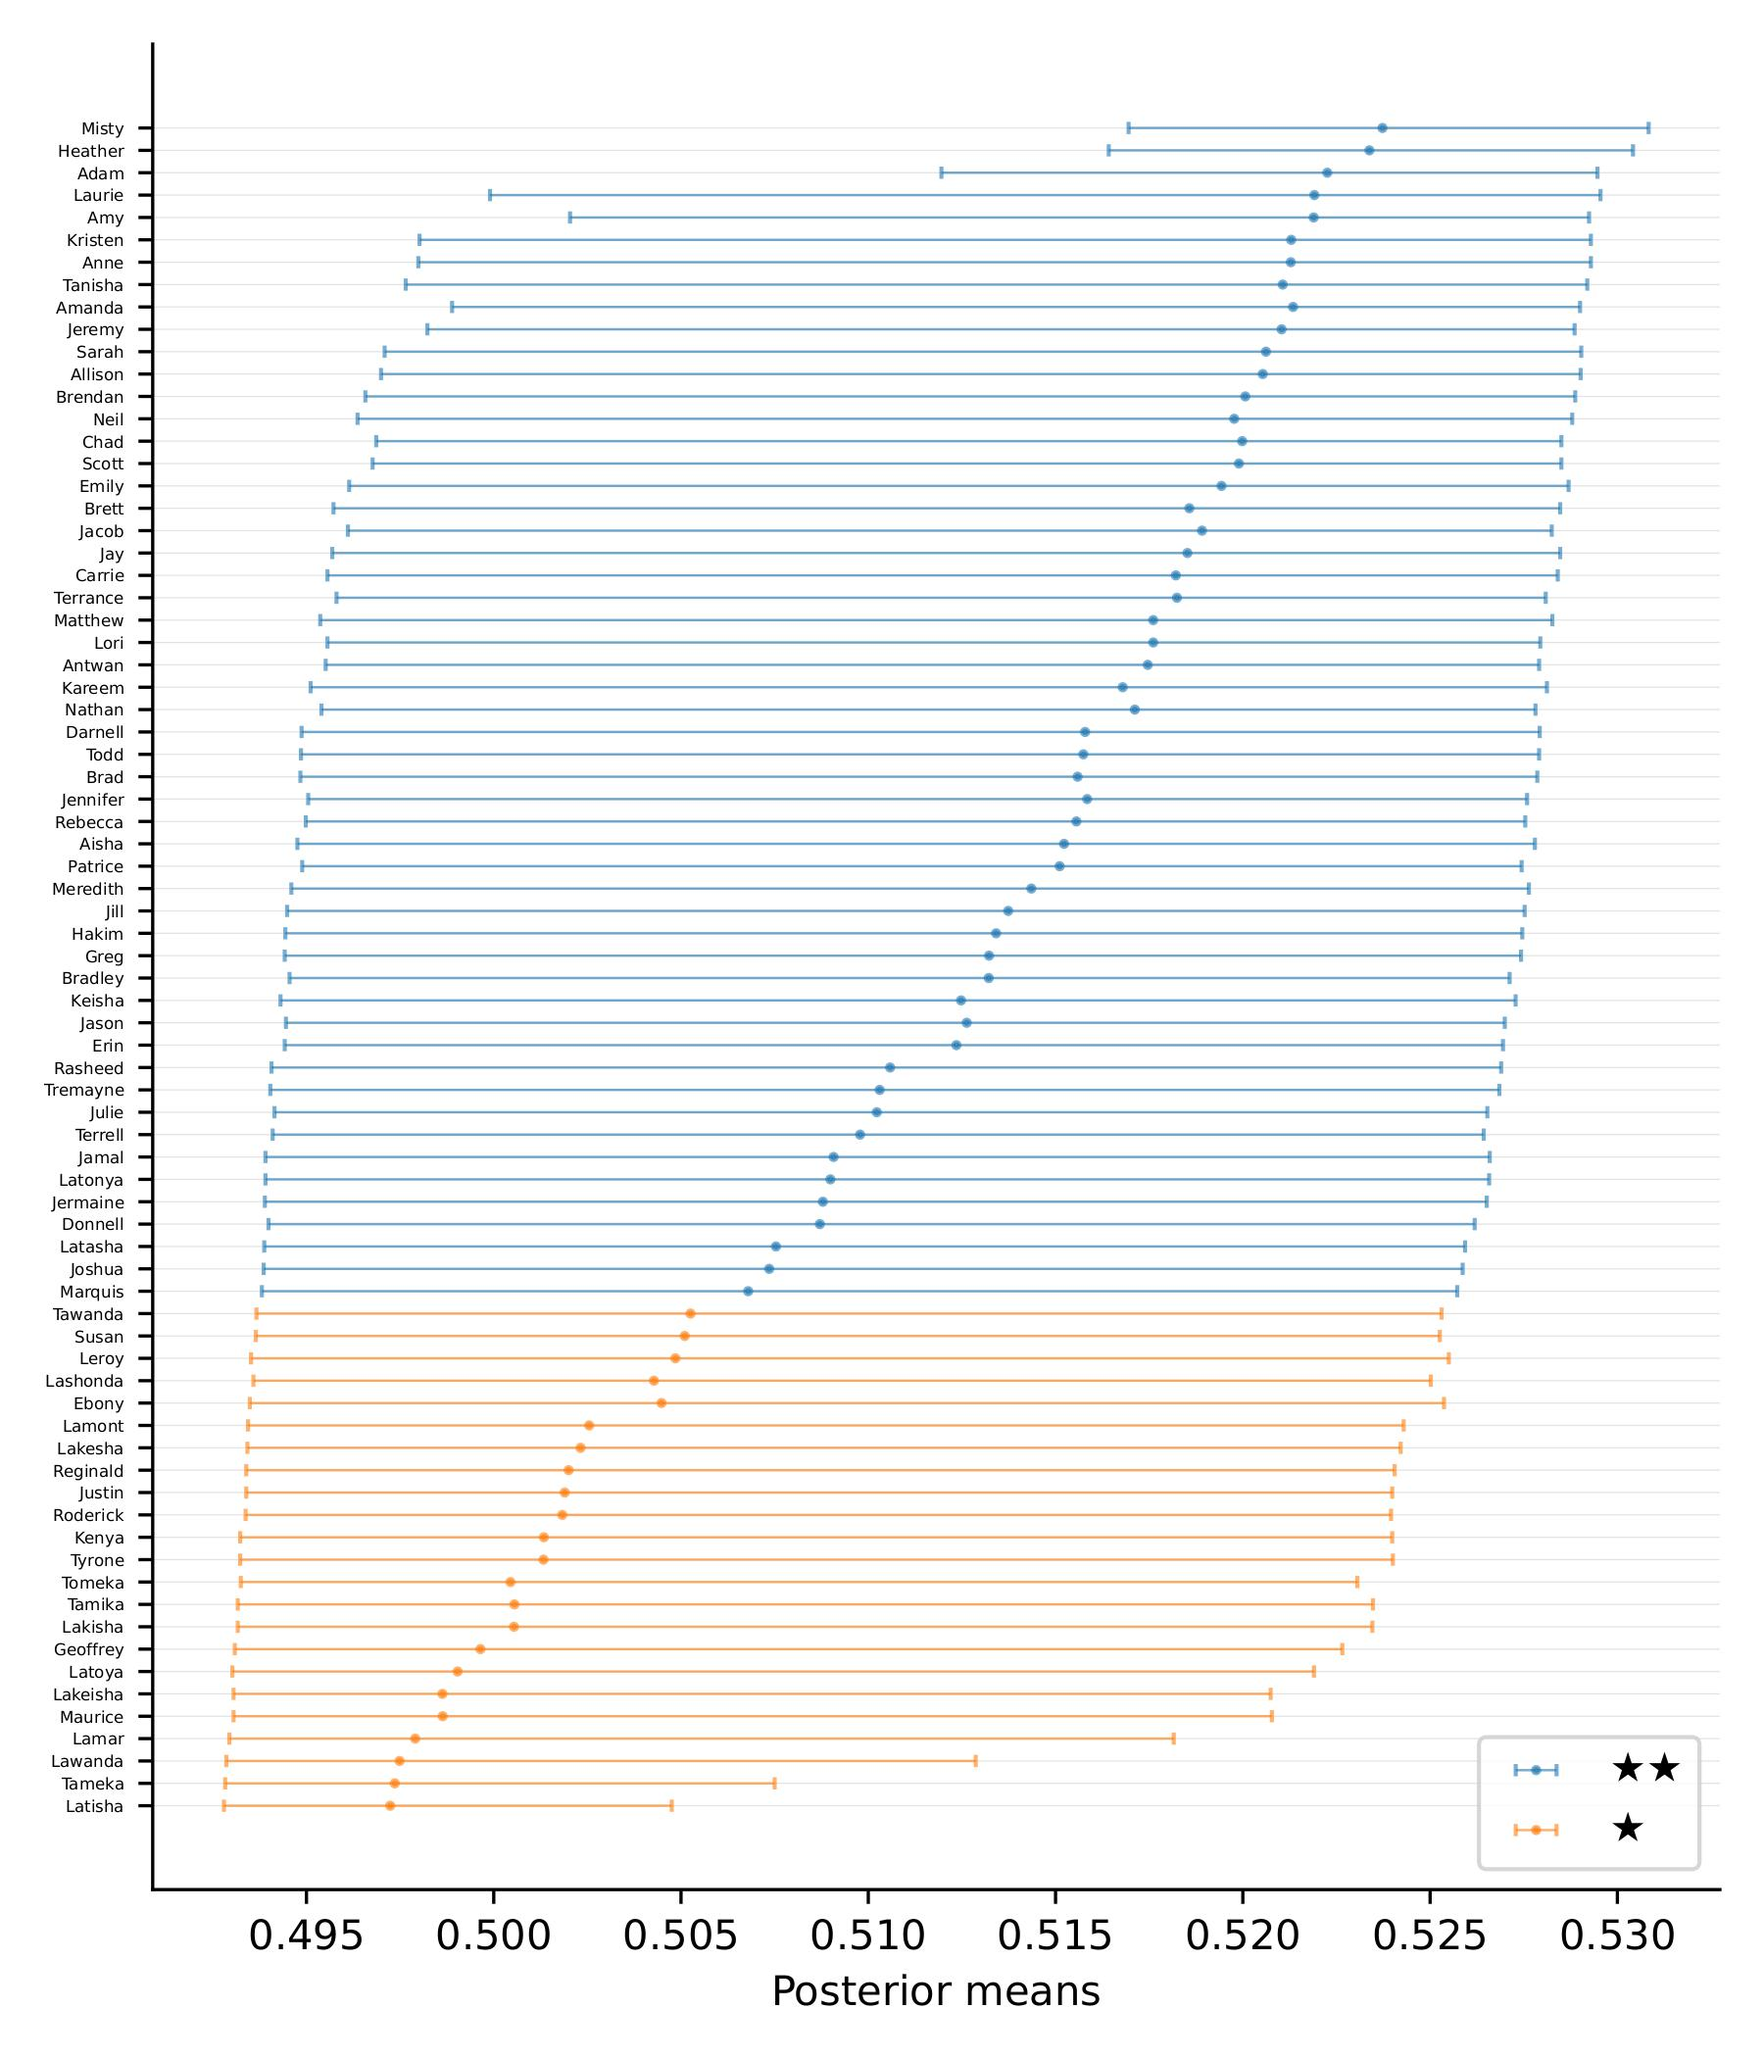
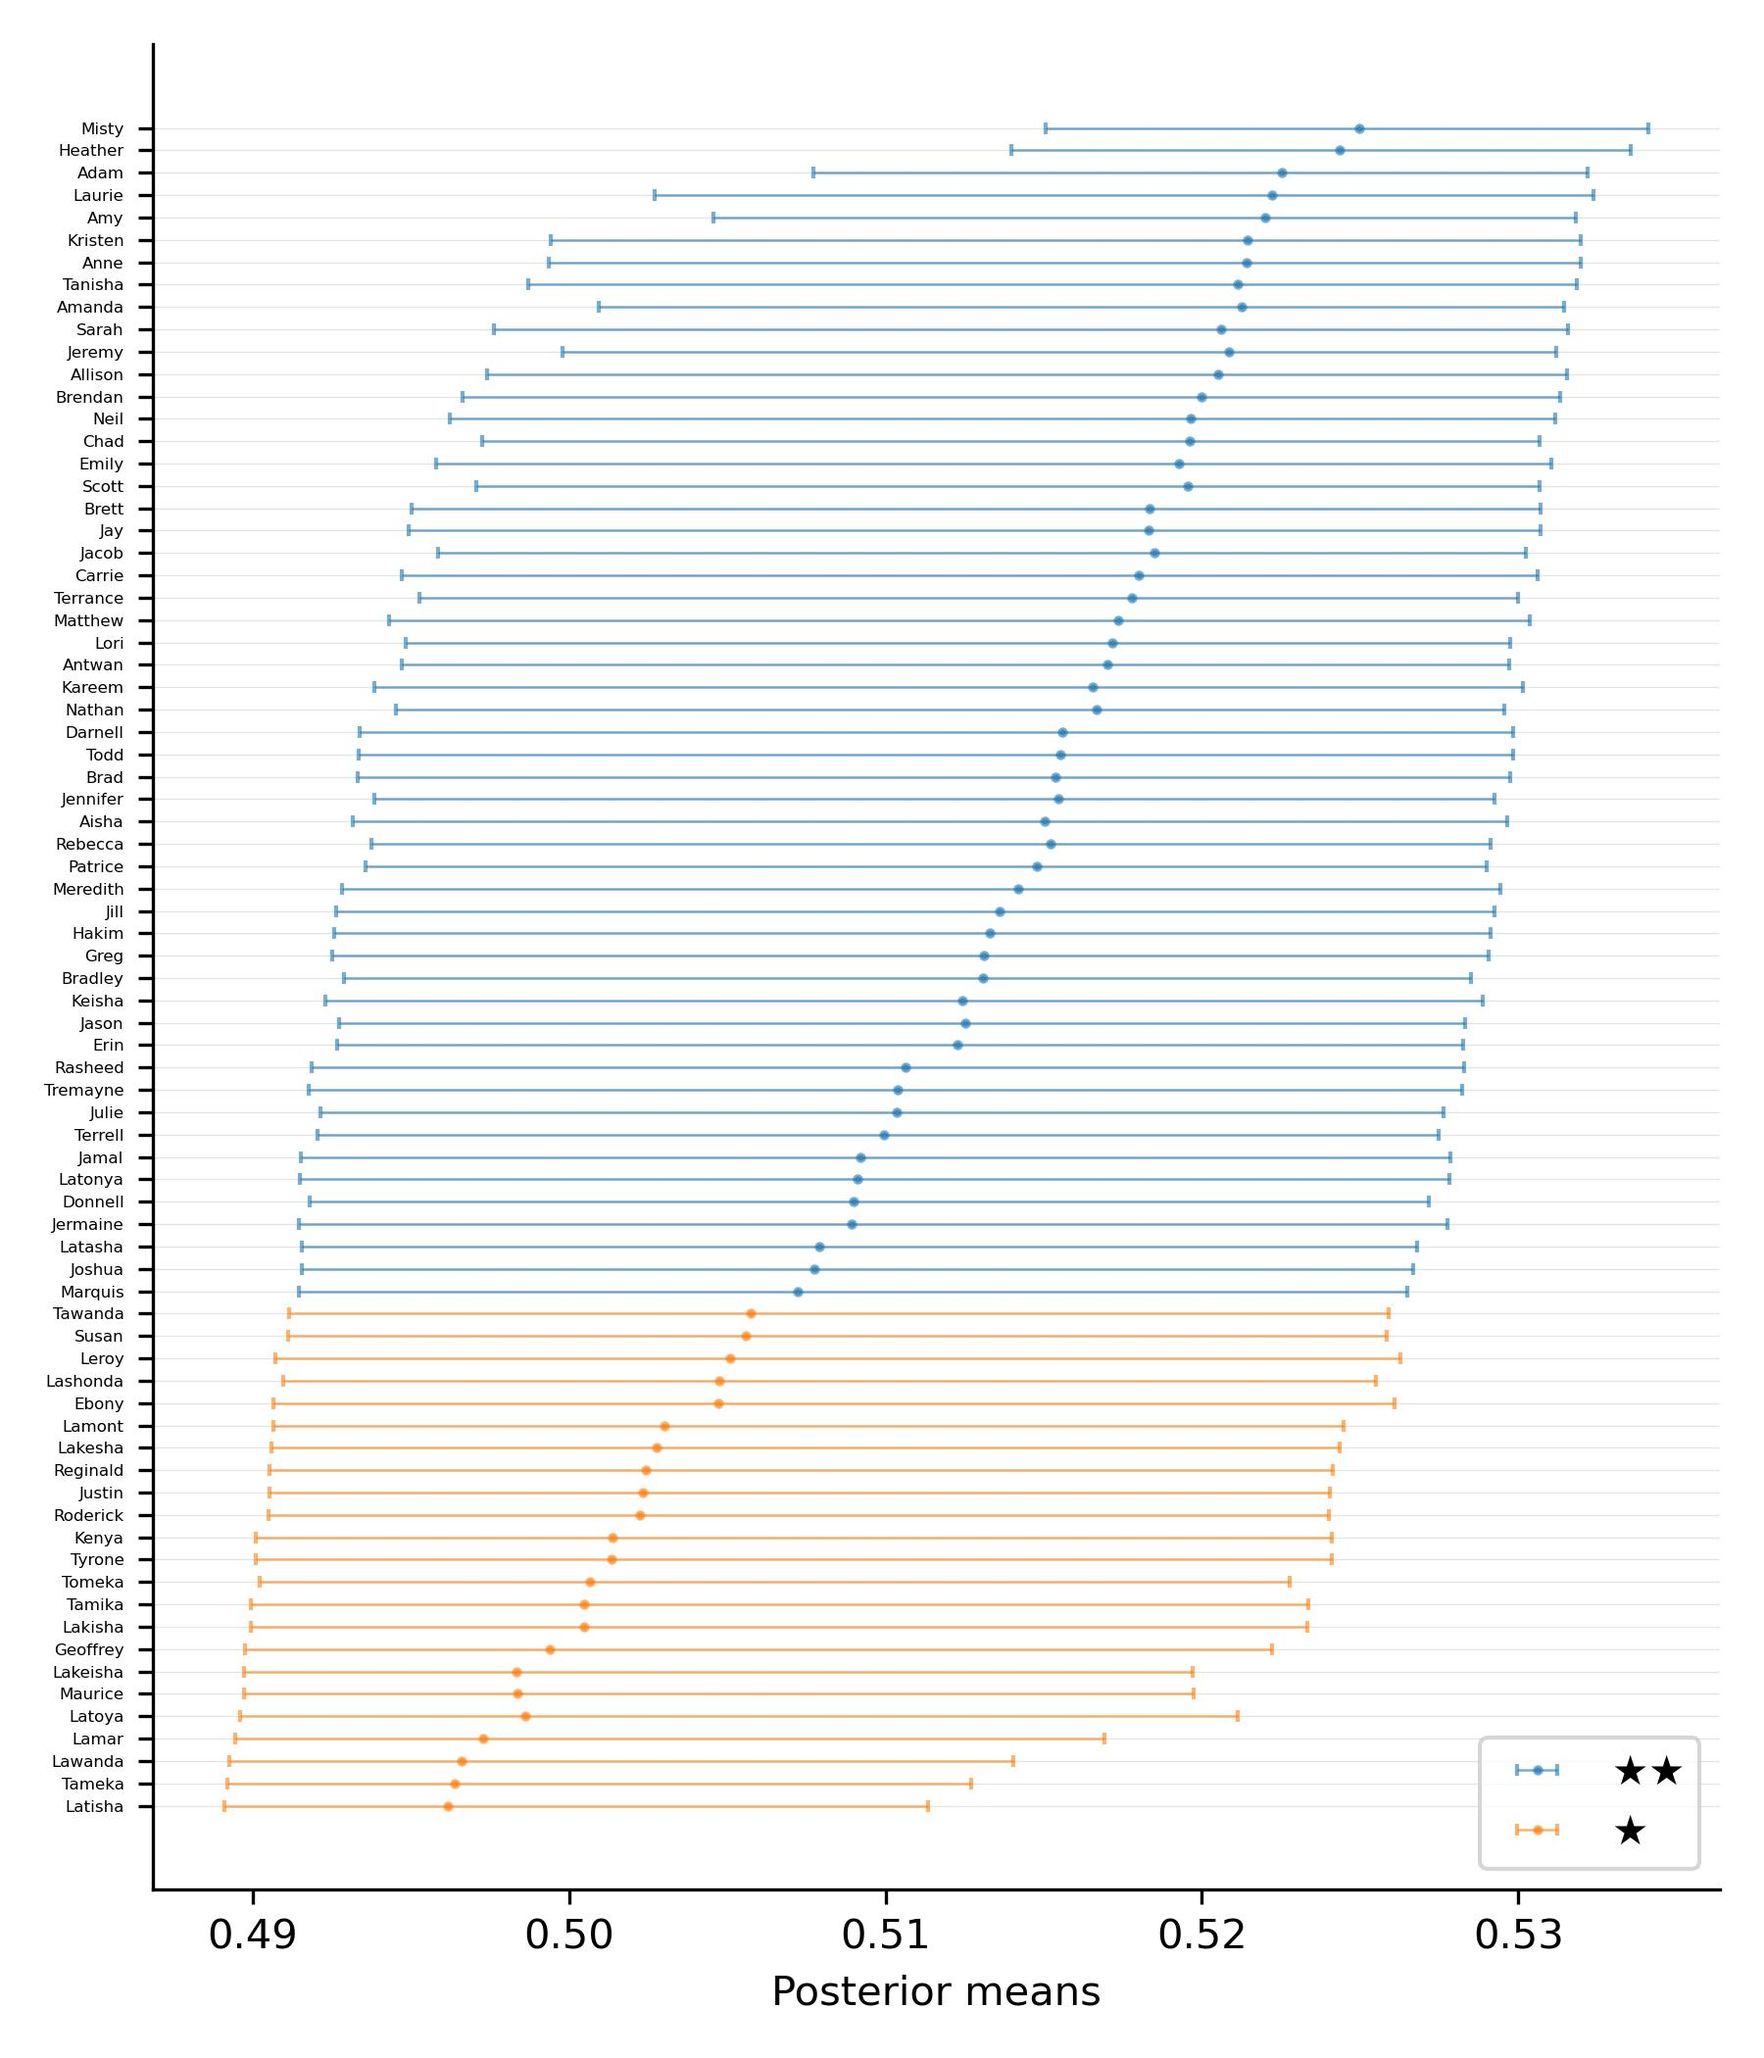
feat: example update

diff --git a/example/example.py b/example/example.py
@@ -6,7 +6,6 @@ import numpy as np
 
 # 0. Import the data --------------------------------------------------------------
 
-
 # Read in the data
 data = pd.read_csv(os.getcwd() + '/example/name_example.csv')
 data.head()
@@ -58,25 +57,20 @@ pis = G.compute_pis(g_theta=None, ncores=-1, power=0)
 # 3. DRRank Rankings ------------------------------------------------------------
 
 from drrank import fit
-from simul_pij import simul_data
-
-# Simulate data
-p_ij = simul_data(size = 25)
 
 # Fit the report card function
-results = fit(p_ij, lamb = 0.25, DR = None)
+results = fit(pis, lamb = 0.25, DR = None)
 
 import numpy as np
 from drrank import fit_multiple
 
 # Try different values of Lambda
-results_l = fit_multiple(p_ij, np.arange(0, 0.9, 0.01))
+results_l = fit_multiple(pis, np.arange(0, 0.9, 0.01))
 
 # Fit the report card function
-results_dr = fit(p_ij, lamb = None, DR = 0.05)
+results_dr = fit(pis, lamb = None, DR = 0.05)
 
 # Plot the results
-
 from drrank import fig_ranks
 
 # Merge the results with the identity of our observations

diff --git a/README.md b/README.md
@@ -91,7 +91,7 @@ G.plot_estimates(save_path = "example/prior_distribution.jpg")
 Within the function you can specify the following arguments:
 - *g_theta*: provide your own prior distribution G. `None` implies the function will utilize the estimated G from the *estimate_prior()* method (default = `None`).
 - *show_plot*: whether to show the plot or not (default = `True`).
-- *save_path*: path to where the plot will be saved. `None' implies the graph will not be saved (default = `None`).
+- *save_path*: path to where the plot will be saved. `None` implies the graph will not be saved (default = `None`).
 
 ### 3. Estimation of posterior features and $P$ matrix
 
@@ -194,6 +194,6 @@ fig_ranks(ranking = results, posterior_features = G.posterior_df, ylabels = 'fir
 Within the function you can specify the following arguments:
 - *results*: ranking results from *drrank.fit*
 - *posterior_features*: posterior features computed through *G.compute_posteriors()*
-- *ylabels*: optional, specify the column in *results* where we have stored the labels of each observation (default = None)
-- *show_plot*: whether to show the plot or not (default = True)
-- *save_path*: path to where the plot will be saved; None implies the graph will not be saved (default = None) 
+- *ylabels*: optional, specify the column in *results* where we have stored the labels of each observation (default = `None`)
+- *show_plot*: whether to show the plot or not (default = `True`)
+- *save_path*: path to where the plot will be saved; `None` implies the graph will not be saved (default = `None`) 
